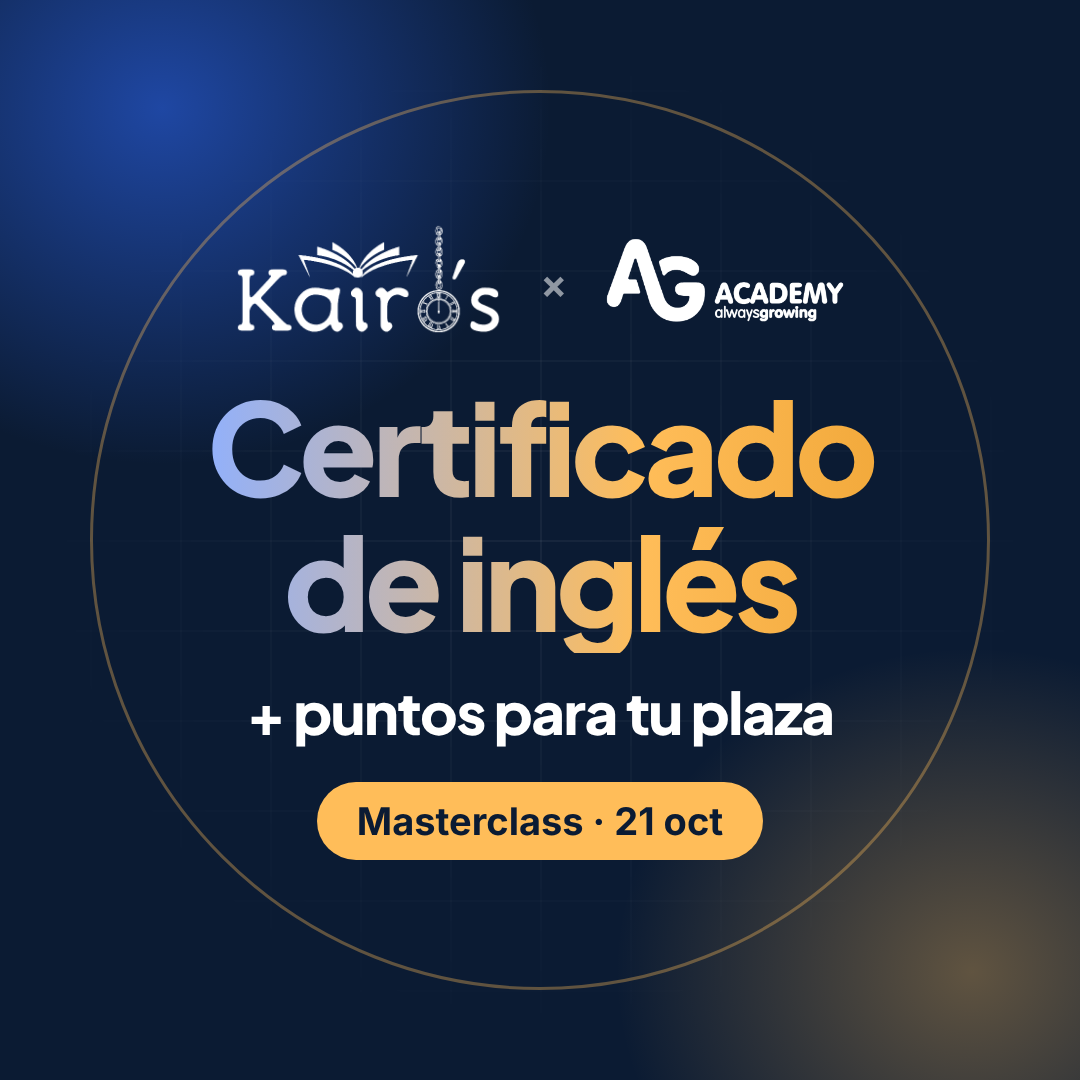
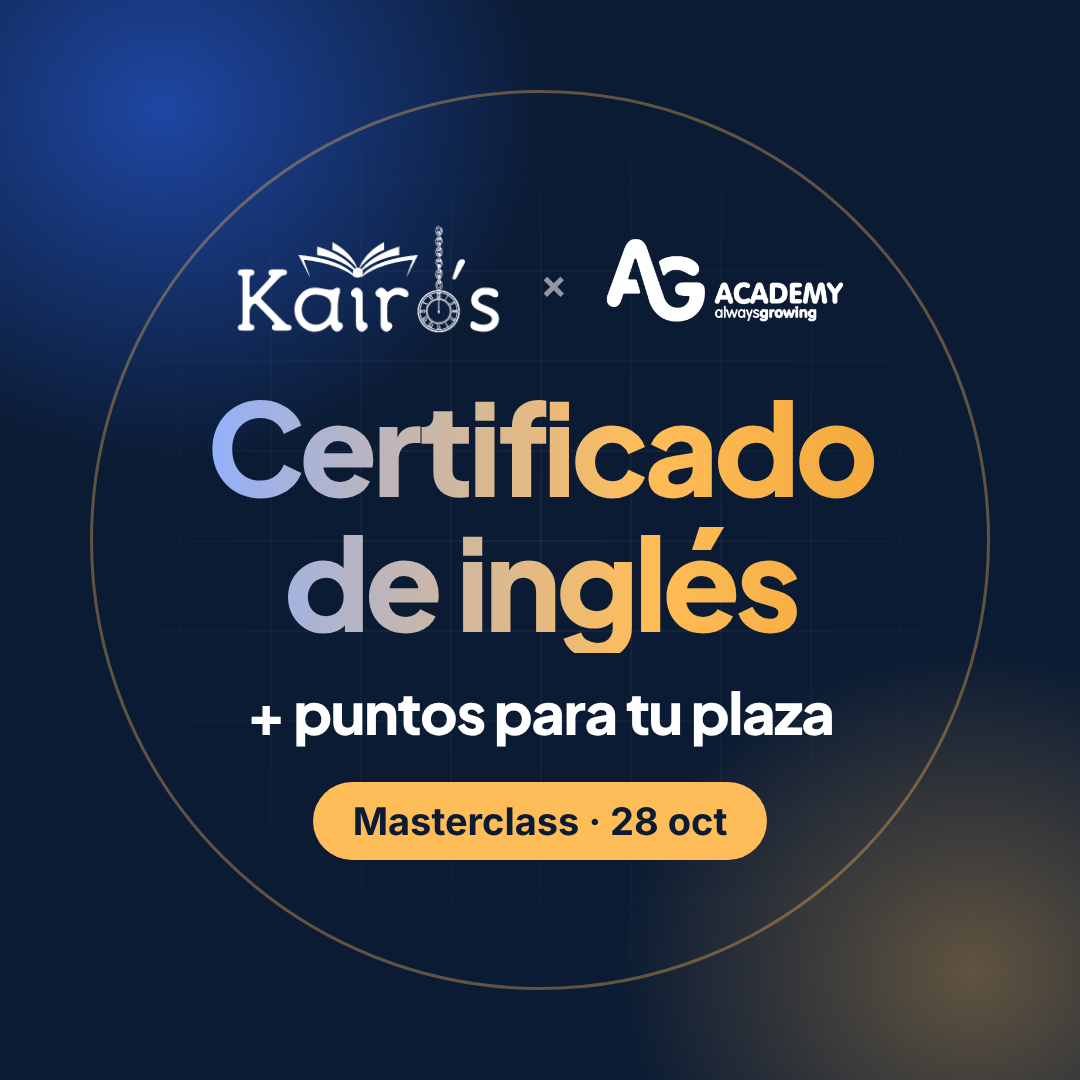
Kairós: masterclass pasa al miércoles 28 de octubre (miniatura, post y textos)
Claude-Session: https://claude.ai/code/session_01K3kACsC7VJzSCraEBbfL27

Changed region(s): [[0.275, 0.7333, 0.6722, 0.7944], [0.7028, 0.7333, 0.7333, 0.7639]]

diff --git a/landings/kairos/05-gracias.html b/landings/kairos/05-gracias.html
@@ -362,7 +362,7 @@
     <div class="ag-ec-ty-meta">
       <div class="ag-ec-ty-meta-cell">
         <div class="ag-ec-ty-meta-label">Fecha</div>
-        <div class="ag-ec-ty-meta-value">Miércoles 21 oct</div>
+        <div class="ag-ec-ty-meta-value">Miércoles 28 oct</div>
       </div>
       <div class="ag-ec-ty-meta-cell">
         <div class="ag-ec-ty-meta-label">Hora</div>
@@ -382,7 +382,7 @@
       </div>
       <div class="ag-ec-ty-step">
         <span class="ag-ec-ty-step-num">2</span>
-        <span class="ag-ec-ty-step-text"><strong>Apúntalo en tu agenda:</strong> miércoles 21 de octubre a las 17:00h.</span>
+        <span class="ag-ec-ty-step-text"><strong>Apúntalo en tu agenda:</strong> miércoles 28 de octubre a las 17:00h.</span>
       </div>
       <div class="ag-ec-ty-step">
         <span class="ag-ec-ty-step-num">3</span>
@@ -391,7 +391,7 @@
     </div>
 
     <div class="ag-ec-ty-footer">
-      Kairós Formación × AG Academy · Masterclass 21 de octubre de 2026
+      Kairós Formación × AG Academy · Masterclass 28 de octubre de 2026
     </div>
 
   </div>

diff --git a/landings/kairos/04-cierre-cta.html b/landings/kairos/04-cierre-cta.html
@@ -147,7 +147,7 @@
     <div class="ag-ec-s4-points">
       <span class="ag-ec-s4-point"><svg viewBox="0 0 14 14" fill="none"><path d="M2.5 7.5l3 3 6-7" stroke="#4ade80" stroke-width="2" stroke-linecap="round" stroke-linejoin="round"/></svg>Gratuita</span>
       <span class="ag-ec-s4-point"><svg viewBox="0 0 14 14" fill="none"><path d="M2.5 7.5l3 3 6-7" stroke="#4ade80" stroke-width="2" stroke-linecap="round" stroke-linejoin="round"/></svg>En la academia Kairós u online</span>
-      <span class="ag-ec-s4-point ag-ec-s4-point-hl">Miércoles 21 oct · 17:00h</span>
+      <span class="ag-ec-s4-point ag-ec-s4-point-hl">Miércoles 28 oct · 17:00h</span>
     </div>
 
     <p class="ag-ec-s4-note">Exclusiva para alumnos de Kairós<span class="ag-ec-s4-sep"> · </span><strong>Plazas presenciales limitadas</strong></p>

diff --git a/landings/kairos/01-hero.html b/landings/kairos/01-hero.html
@@ -280,7 +280,7 @@
     <div class="ag-ec-hero-meta">
       <div class="ag-ec-meta-cell">
         <div class="ag-ec-meta-label">Fecha</div>
-        <div class="ag-ec-meta-value">Miércoles 21 oct</div>
+        <div class="ag-ec-meta-value">Miércoles 28 oct</div>
       </div>
       <div class="ag-ec-meta-cell">
         <div class="ag-ec-meta-label">Hora</div>

diff --git a/landings/kairos/03-problemas-aprenderas.html b/landings/kairos/03-problemas-aprenderas.html
@@ -202,7 +202,7 @@
     </div>
 
     <div class="ag-ec-s3-head">
-      <span class="ag-ec-s3-kicker">Miércoles 21 · 17:00h</span>
+      <span class="ag-ec-s3-kicker">Miércoles 28 · 17:00h</span>
       <h2 class="ag-ec-s3-title">Lo que vas a <span class="ag-ec-grad">llevarte</span></h2>
     </div>
 

diff --git a/landings/kairos/difusion/textos-difusion.md b/landings/kairos/difusion/textos-difusion.md
@@ -1,11 +1,11 @@
-# Kit de difusión Kairós × AG Academy — Masterclass miércoles 21 oct 17:00h
+# Kit de difusión Kairós × AG Academy — Masterclass miércoles 28 oct 17:00h
 
 Landing: https://www.agacademyaptis.com/kairos-ag-academy-21-10-2026
 
 Enlaces con seguimiento:
-- Email: https://www.agacademyaptis.com/kairos-ag-academy-21-10-2026?utm_source=kairos&utm_medium=email&utm_campaign=masterclass21oct
-- WhatsApp: https://www.agacademyaptis.com/kairos-ag-academy-21-10-2026?utm_source=kairos&utm_medium=whatsapp&utm_campaign=masterclass21oct
-- Instagram (bio): https://www.agacademyaptis.com/kairos-ag-academy-21-10-2026?utm_source=kairos&utm_medium=instagram&utm_campaign=masterclass21oct
+- Email: https://www.agacademyaptis.com/kairos-ag-academy-21-10-2026?utm_source=kairos&utm_medium=email&utm_campaign=masterclass28oct
+- WhatsApp: https://www.agacademyaptis.com/kairos-ag-academy-21-10-2026?utm_source=kairos&utm_medium=whatsapp&utm_campaign=masterclass28oct
+- Instagram (bio): https://www.agacademyaptis.com/kairos-ag-academy-21-10-2026?utm_source=kairos&utm_medium=instagram&utm_campaign=masterclass28oct
 
 Imágenes:
 - instagram-post-kairos.png (1080x1350, feed)
@@ -18,7 +18,7 @@ Imágenes:
 
 Asunto: El inglés también suma en tu oposición
 Asunto alternativo: ¿Tienes ya el certificado de inglés?
-Preheader: Masterclass gratis el miércoles 21 a las 17:00h, aquí en la academia u online.
+Preheader: Masterclass gratis el miércoles 28 a las 17:00h, aquí en la academia u online.
 
 Hola,
 
@@ -28,12 +28,12 @@ El problema es que ese certificado son puntos en el baremo. Y en una oposición,
 
 Por eso hemos organizado algo con AG Academy, una academia especializada en que opositores como tú saquen su certificado oficial de inglés rápido, sin quitarle horas al estudio. Llevan más de 6.000 alumnos y un 94% de aprobados.
 
-El miércoles 21 de octubre a las 17:00h hacemos una masterclass gratuita, solo para alumnos de Kairós. Jesu, su fundador, te va a contar qué certificado te conviene, por qué el APTIS es la vía más rápida y cómo encajarlo en tu oposición.
+El miércoles 28 de octubre a las 17:00h hacemos una masterclass gratuita, solo para alumnos de Kairós. Jesu, su fundador, te va a contar qué certificado te conviene, por qué el APTIS es la vía más rápida y cómo encajarlo en tu oposición.
 
 Puedes venir a la academia o conectarte online. Las plazas presenciales son limitadas.
 
 Reserva tu sitio aquí:
-https://www.agacademyaptis.com/kairos-ag-academy-21-10-2026?utm_source=kairos&utm_medium=email&utm_campaign=masterclass21oct
+https://www.agacademyaptis.com/kairos-ag-academy-21-10-2026?utm_source=kairos&utm_medium=email&utm_campaign=masterclass28oct
 
 Te esperamos.
 
@@ -45,19 +45,19 @@ Equipo Kairós
 
 Hola a todos 👋
 
-El miércoles 21 a las 17:00h hacemos una masterclass gratuita con AG Academy sobre el certificado de inglés para oposiciones.
+El miércoles 28 a las 17:00h hacemos una masterclass gratuita con AG Academy sobre el certificado de inglés para oposiciones.
 
 Cómo sacarlo en semanas y sumar esos puntos al baremo, sin quitarle horas a temas ni supuestos.
 
 Podéis venir a la academia o conectaros online. Es solo para alumnos de Kairós y las plazas presenciales son limitadas.
 
 Apuntaos aquí 👇
-https://www.agacademyaptis.com/kairos-ag-academy-21-10-2026?utm_source=kairos&utm_medium=whatsapp&utm_campaign=masterclass21oct
+https://www.agacademyaptis.com/kairos-ag-academy-21-10-2026?utm_source=kairos&utm_medium=whatsapp&utm_campaign=masterclass28oct
 
 ### Versión corta (para estados o mensajes sueltos)
 
-Miércoles 21 · 17:00h. Masterclass gratis sobre el certificado de inglés para opositores, en la academia u online. Plazas limitadas 👇
-https://www.agacademyaptis.com/kairos-ag-academy-21-10-2026?utm_source=kairos&utm_medium=whatsapp&utm_campaign=masterclass21oct
+Miércoles 28 · 17:00h. Masterclass gratis sobre el certificado de inglés para opositores, en la academia u online. Plazas limitadas 👇
+https://www.agacademyaptis.com/kairos-ag-academy-21-10-2026?utm_source=kairos&utm_medium=whatsapp&utm_campaign=masterclass28oct
 
 ---
 
@@ -67,7 +67,7 @@ https://www.agacademyaptis.com/kairos-ag-academy-21-10-2026?utm_source=kairos&ut
 
 ¿Te falta el certificado de inglés para tu oposición? Este miércoles te contamos cómo sacarlo.
 
-📅 Miércoles 21 de octubre
+📅 Miércoles 28 de octubre
 🕔 17:00h
 📍 En la academia Kairós o online por Zoom
 💸 Gratis · Solo para alumnos de Kairós
@@ -94,22 +94,22 @@ Story 1: ¿Tienes ya el certificado de inglés para tu oposición? 🤔
 
 Story 2: Son puntos en el baremo. Y se pueden sacar en semanas, sin dejar el temario.
 
-Story 3: Masterclass gratis · Miércoles 21 · 17:00h. En la academia o online. Solo alumnos Kairós.
+Story 3: Masterclass gratis · Miércoles 28 · 17:00h. En la academia o online. Solo alumnos Kairós.
 (Sticker de enlace: "Reserva tu plaza" → enlace de Instagram con UTM)
 
 ---
 
 ## 5. Recordatorios para el grupo de WhatsApp de inscritos
 
-### Día anterior (martes 20)
+### Día anterior (martes 27)
 
 ¡Mañana es el día! 🙌
 
-Miércoles 21 a las 17:00h. Si vienes a la academia, te esperamos allí. Si te conectas desde casa, por aquí te pasamos el enlace un ratito antes.
+Miércoles 28 a las 17:00h. Si vienes a la academia, te esperamos allí. Si te conectas desde casa, por aquí te pasamos el enlace un ratito antes.
 
 Ve pensando tus dudas sobre el certificado, que habrá tiempo para resolverlas.
 
-### Mañana del evento (miércoles 21, ~10:00h)
+### Mañana del evento (miércoles 28, ~10:00h)
 
 Hoy a las 17:00h nos vemos 👋
 

diff --git a/landings/kairos/difusion/email-confirmacion.md b/landings/kairos/difusion/email-confirmacion.md
@@ -18,7 +18,7 @@ Sé lo que es estar opositando: temas, supuestos, programación… y encima el i
 
 Te dejo los datos para que no se te escapen:
 
-📅 Miércoles 21 de octubre
+📅 Miércoles 28 de octubre
 🕔 17:00h
 📍 En la academia Kairós o desde casa, como te venga mejor
 
